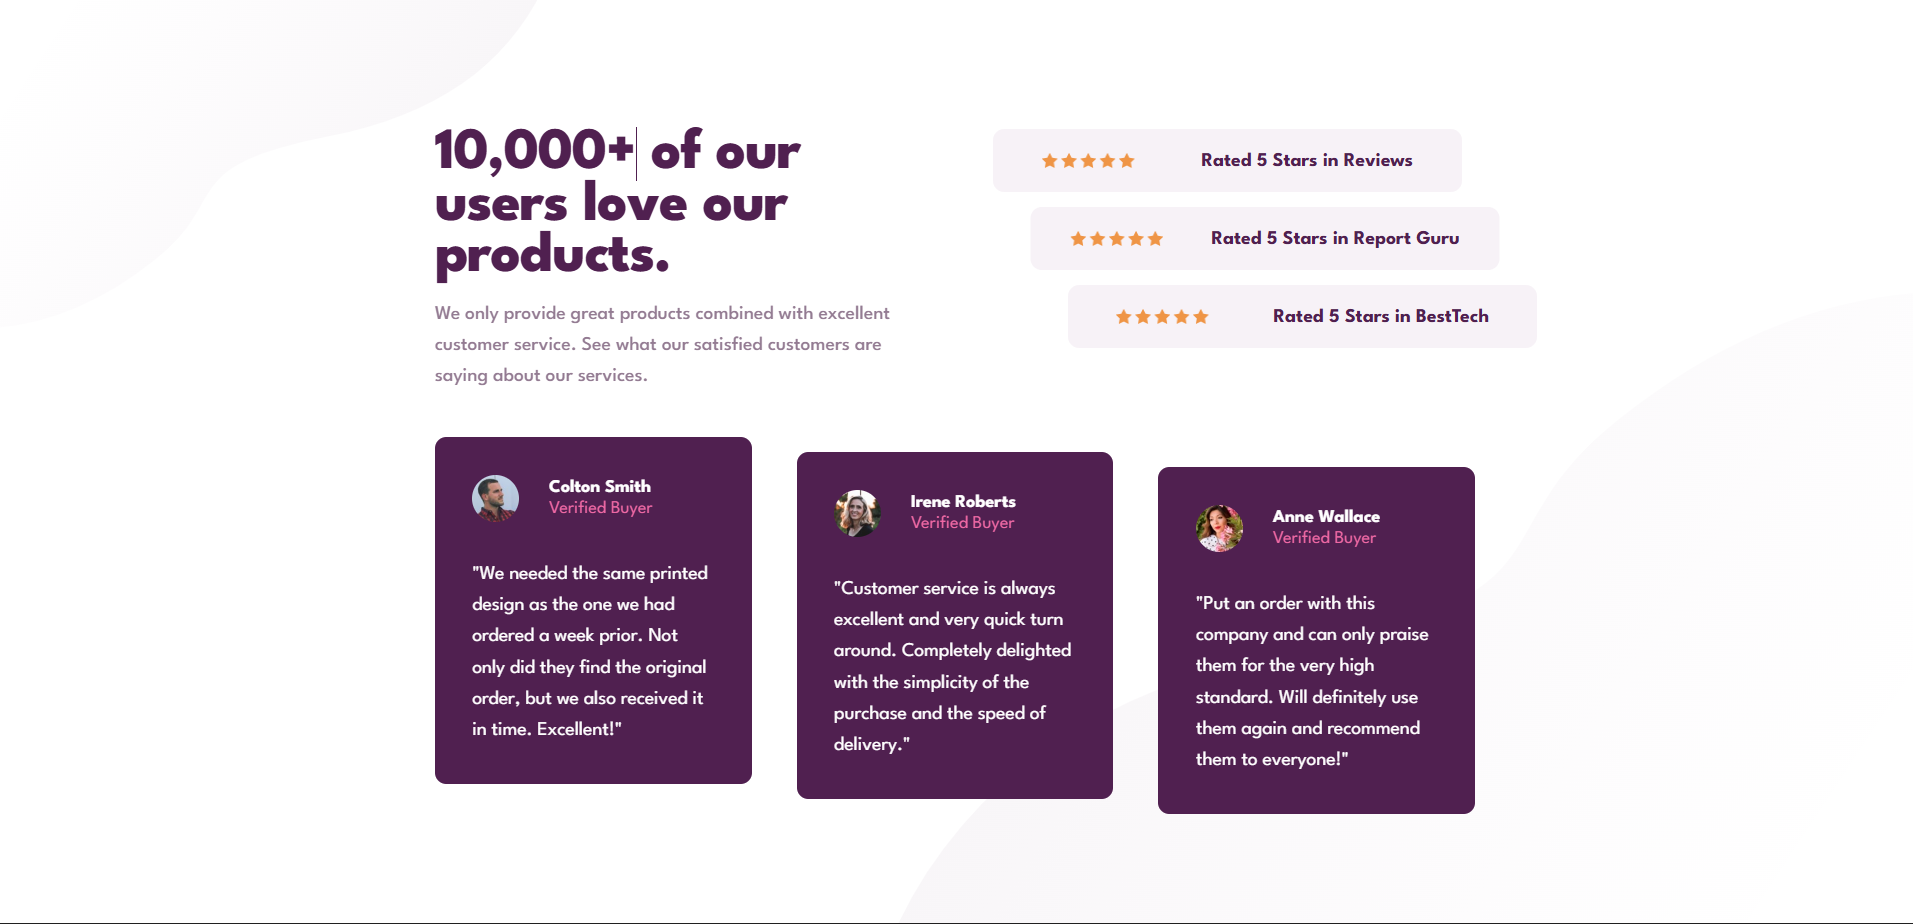
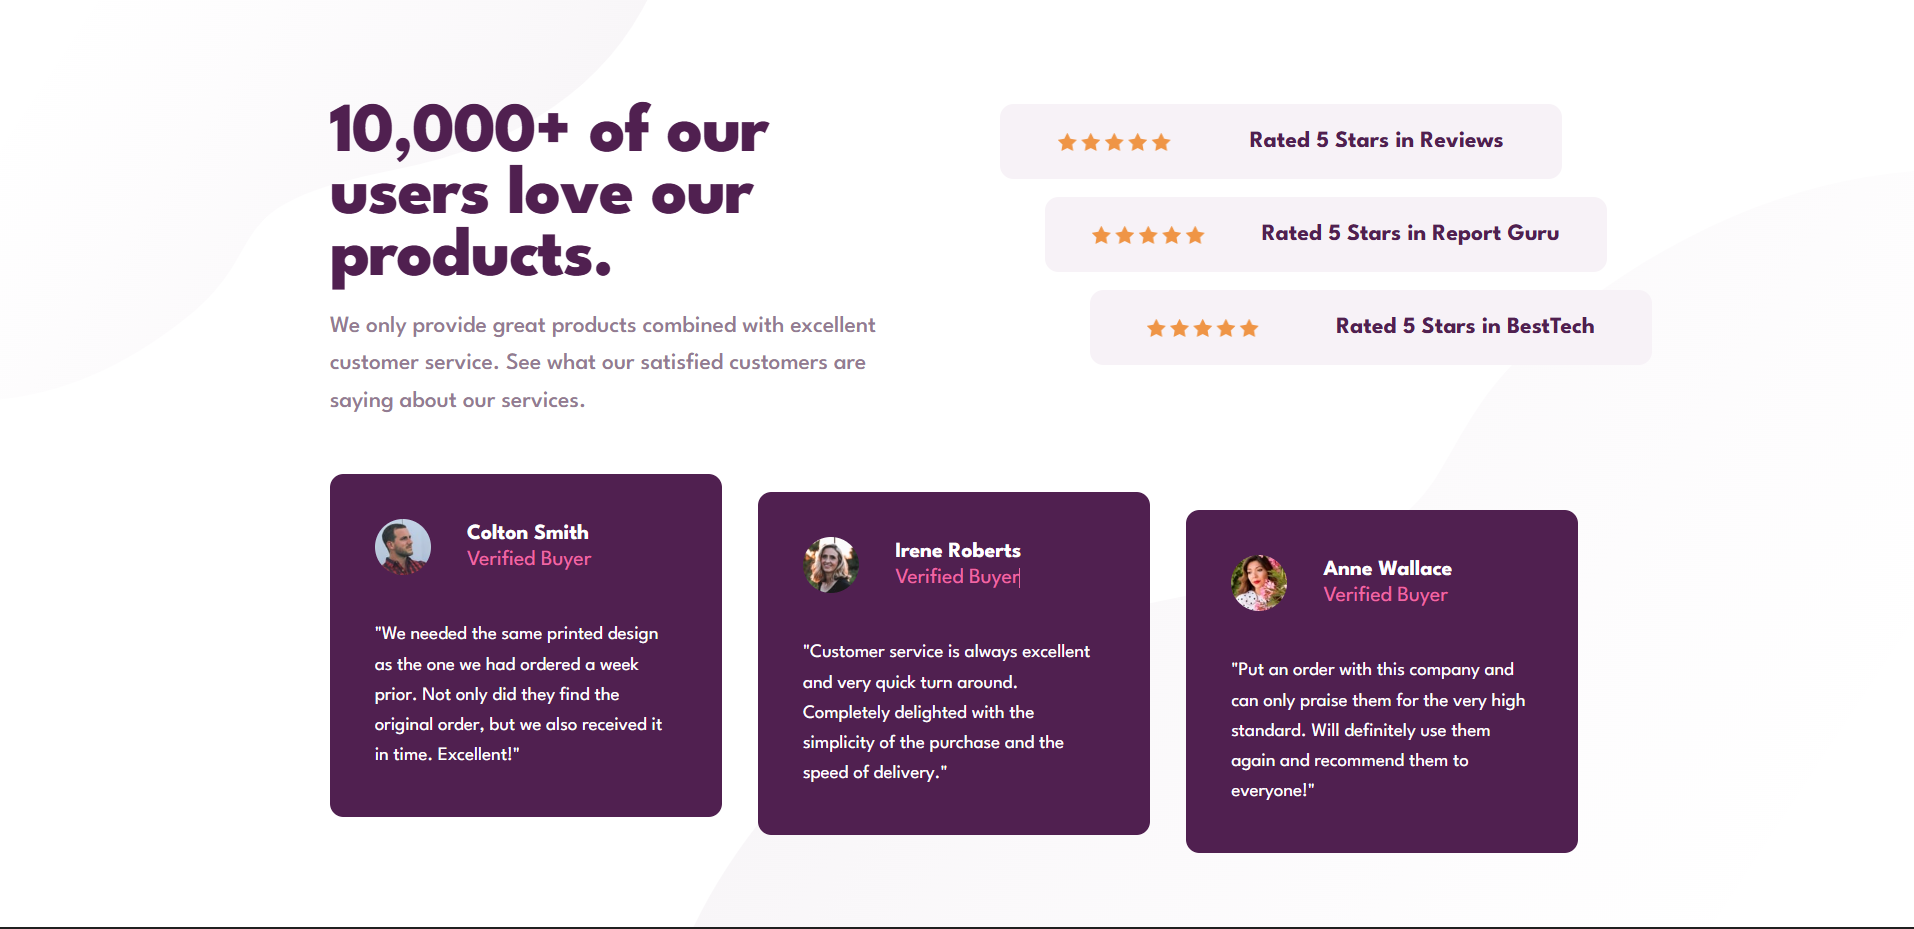
feat: update testimonial card layout and adjust comment text font size for better readability

diff --git a/14-social-proof-section/styles.css b/14-social-proof-section/styles.css
@@ -222,9 +222,12 @@ img {
   }
   .testimonial_card {
         grid-template-columns: repeat(3, 1fr);
-        gap: 3rem;
+        gap: 2rem;
         align-items: start;
     }
+  }
+  .comment_text{
+    font-size: 1.05rem;
   }
   .card_1,
   .card_2,
